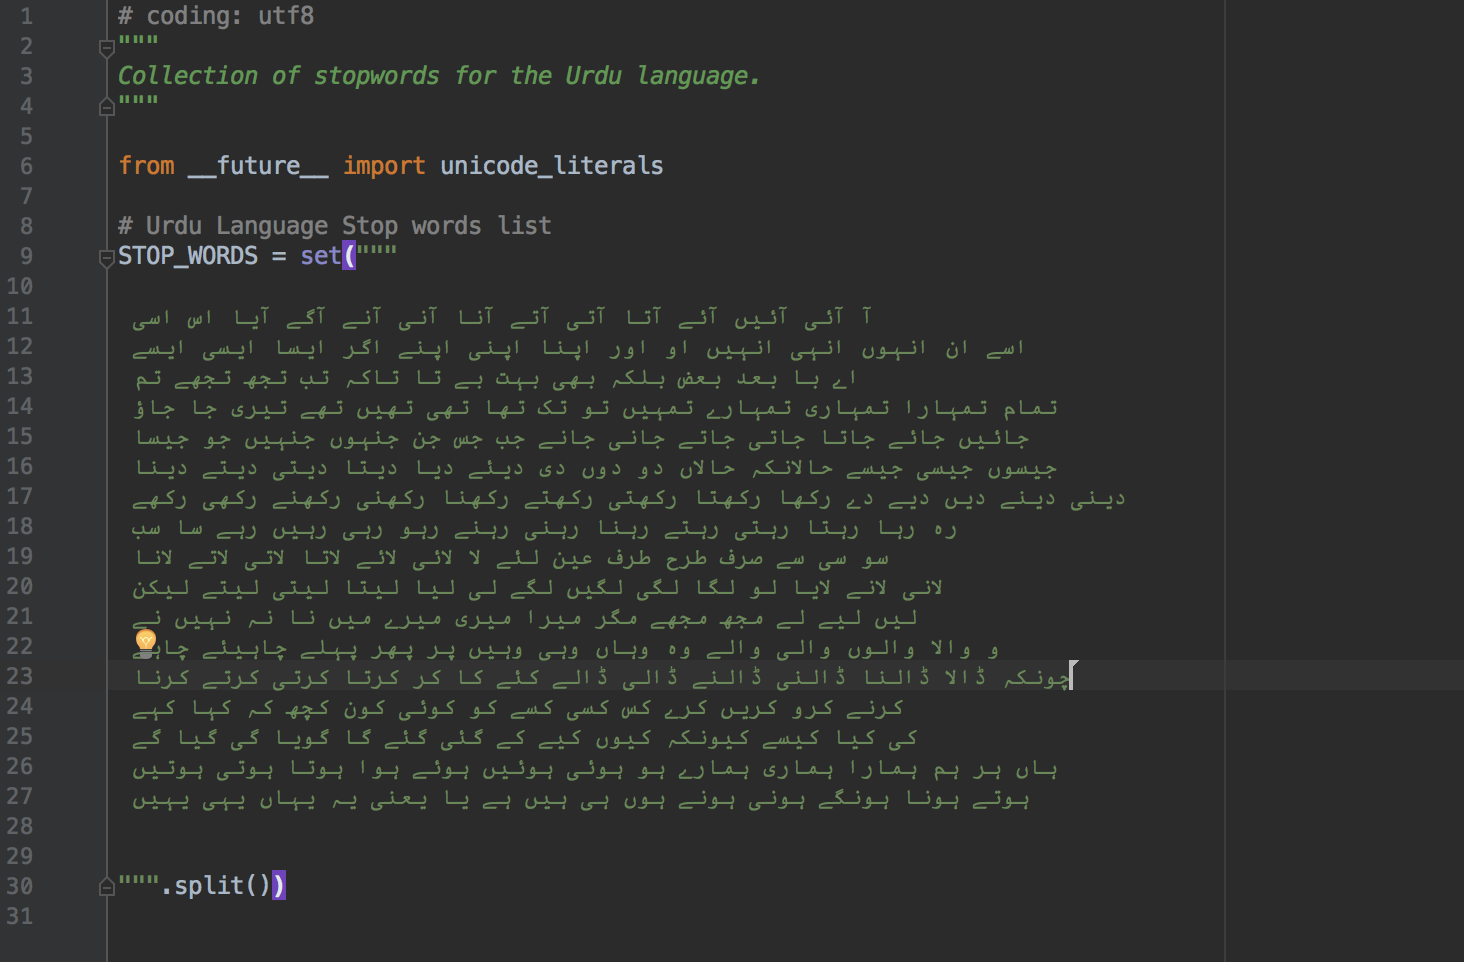
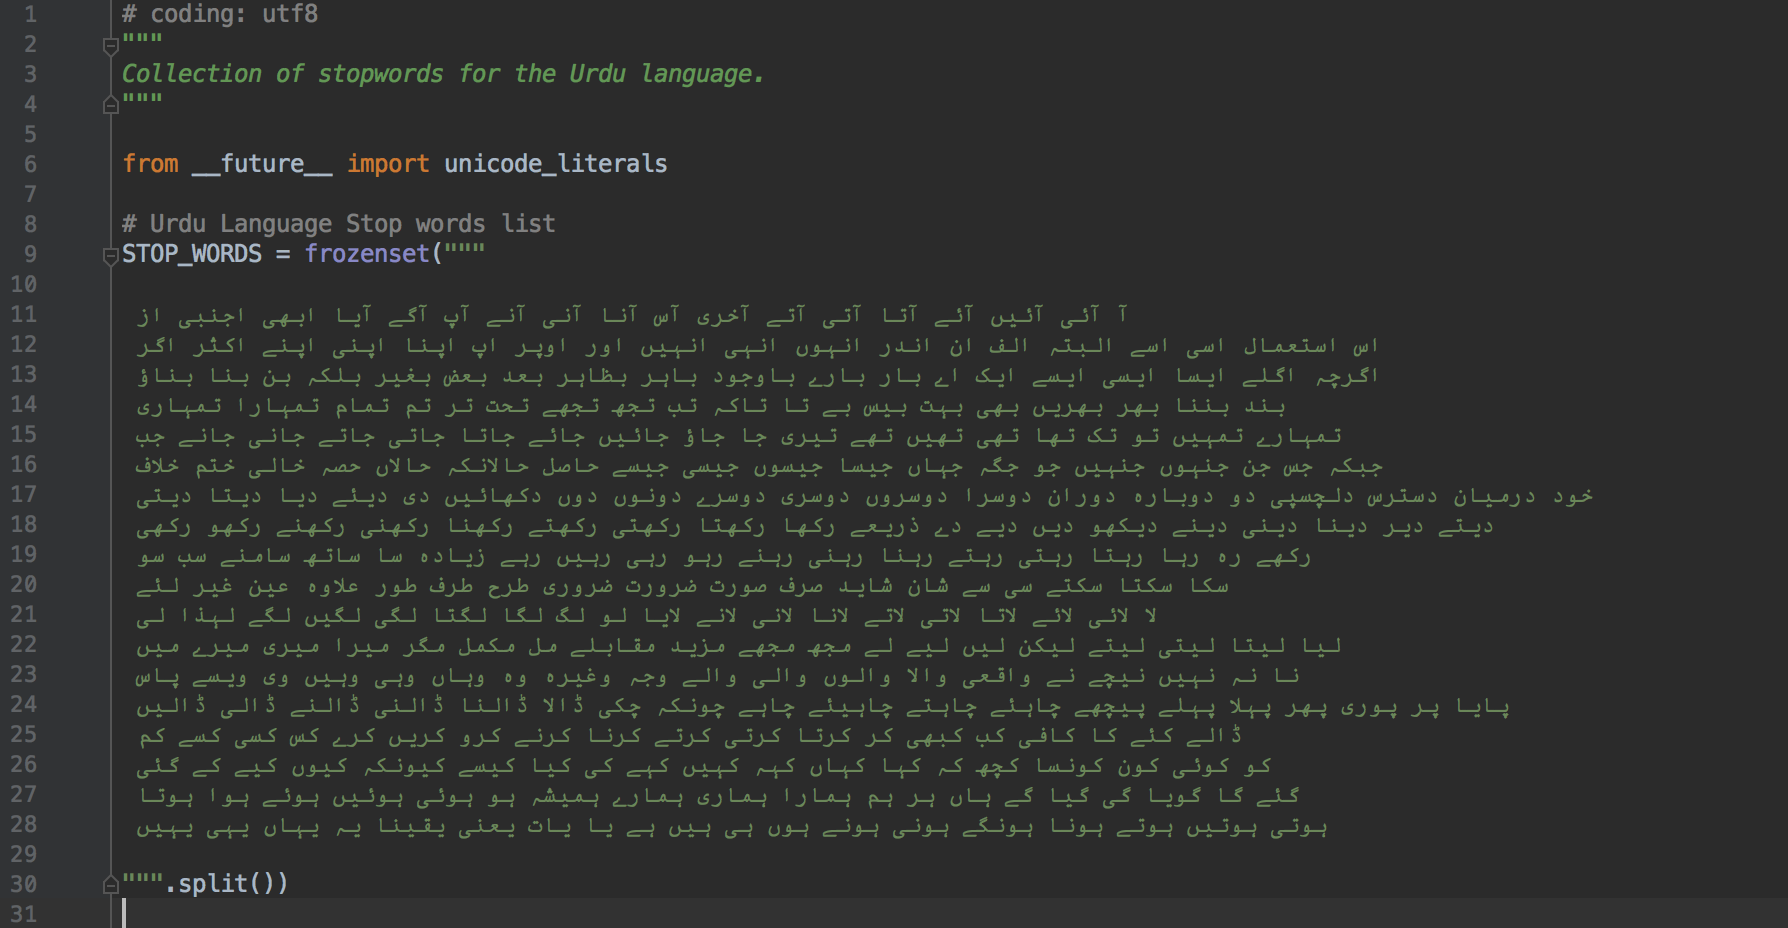
[stop_words] design.png image updated

diff --git a/README.md b/README.md
@@ -3,7 +3,7 @@
 [![Price](https://img.shields.io/badge/price-FREE-0098f7.svg)](https://github.com/urduhack/urdu-stopwords/blob/master/LICENSE)
 [![License: MIT](https://img.shields.io/badge/license-MIT-blue.svg)](https://github.com/urduhack/urdu-stopwords/blob/master/LICENSE)
 
-Complete collection of stopwords for the Urdu language.
+Complete collection of stopwords for the Urdu language (340 words).
 
 ## What is stop words?
 
